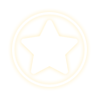
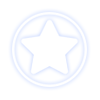
game polished

diff --git a/Assets/Scripts/MainMenu.cs b/Assets/Scripts/MainMenu.cs
@@ -27,7 +27,7 @@ namespace Equation
         [SerializeField] ConfirmScreen _quitPopup;
         [SerializeField] NativeBannerLayout _nativeBannerLayout;
         [SerializeField] RectTransform _otherProduct;
-        
+        [SerializeField] Transform _logoTr;
         
         static TapsellNativeBannerAd _nativeBannerAd;
         static bool _nativeBannerSeen;
@@ -44,6 +44,9 @@ namespace Equation
             _dailyButton.onClick.AddListener(DailyButtonClick);
             
             _dailyNotif.gameObject.SetActive(!GameSaveData.DailyVisited(GameSaveData.GetDailyEntranceNumber()));
+
+            _logoTr.localScale = Vector3.one * .9f;
+            _logoTr.DOScale(Vector3.one, .2f).SetEase(Ease.OutFlash).SetDelay(.2f);
 
             var seq = DOTween.Sequence();
             seq.Append(_dailyNotif.DOScale(.7f, .5f));
@@ -259,6 +262,9 @@ namespace Equation
 
         void ContinueButtonClick()
         {
+            var tr = _continueButton.transform;
+            tr.DOScale(1.1f, .15f);
+            tr.DOScale(1.0f, .15f).SetDelay(.15f);
             SceneTransitor.Instance.TransitScene(SceneTransitor.SCENE_GAME, true);
         }
 

diff --git a/Assets/Editor/PuzzleGenerator.cs b/Assets/Editor/PuzzleGenerator.cs
@@ -13,7 +13,7 @@ namespace Equation.Tools
 {
     public class PuzzleGenerator : EditorWindow
     {
-        // formula of stages of levels = 4 * clauses - crosses. croass is (clauses - 1).
+        // formula of stages of levels = 4 * clauses - clauses. croass is (clauses - 1).
         
         [MenuItem("Equation/Puzzle Generator")]
         static void ShowWindow()

diff --git a/Assets/Scripts/LevelSelect.cs b/Assets/Scripts/LevelSelect.cs
@@ -50,6 +50,7 @@ namespace Equation
 
             bool unlcoked = GameSaveData.IsLevelUnlocked(_level) || GameConfig.Instance.GameIsUnlock;
             _lockObject.SetActive(!unlcoked);
+            _progressText.gameObject.SetActive(unlcoked);
         }
 
         public void OpenStages()
